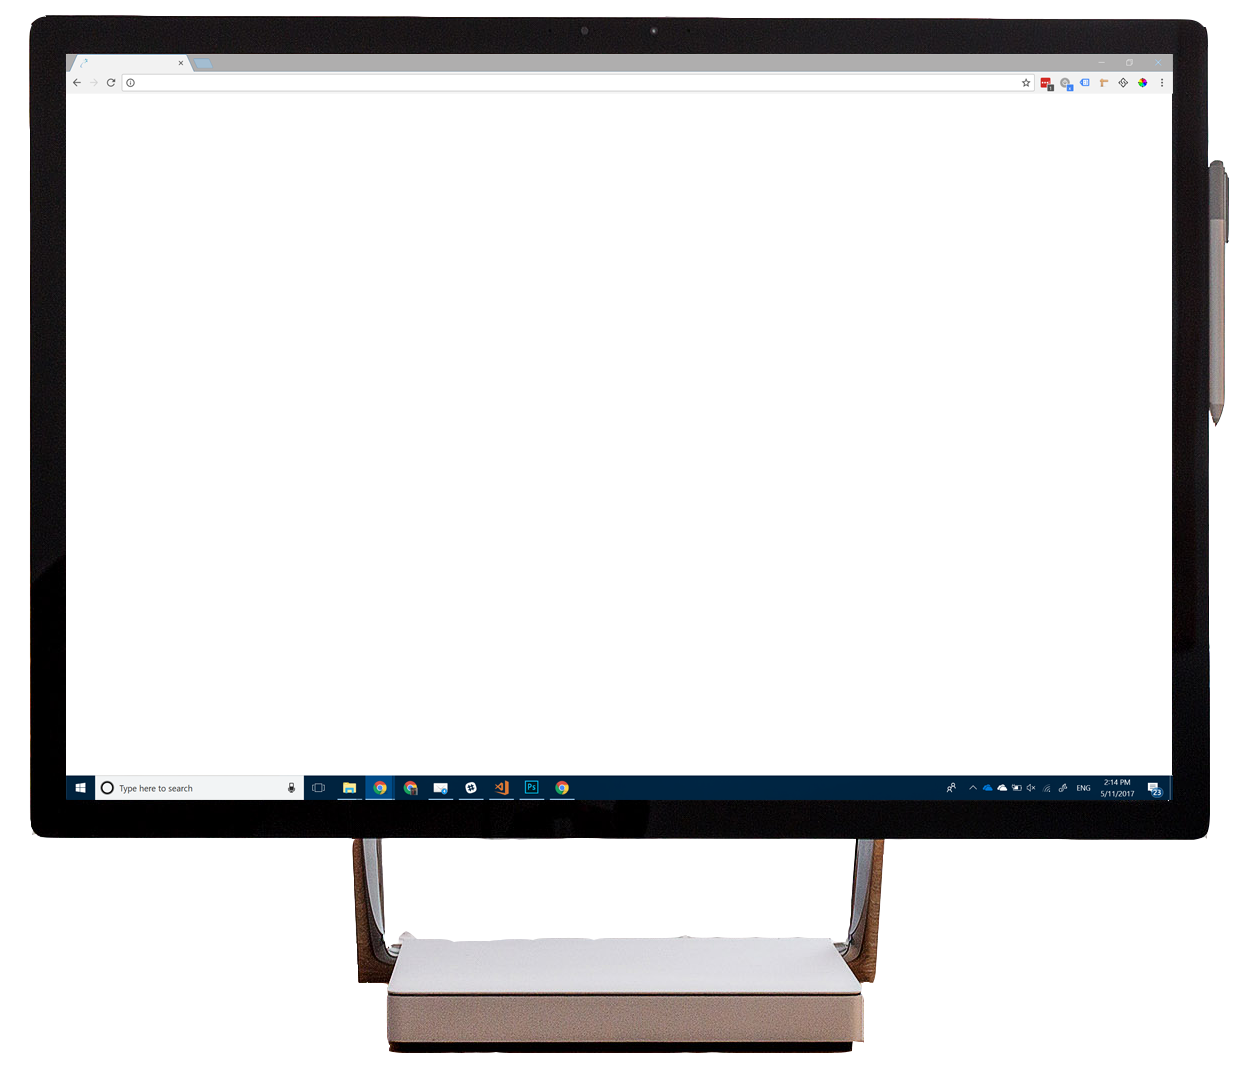
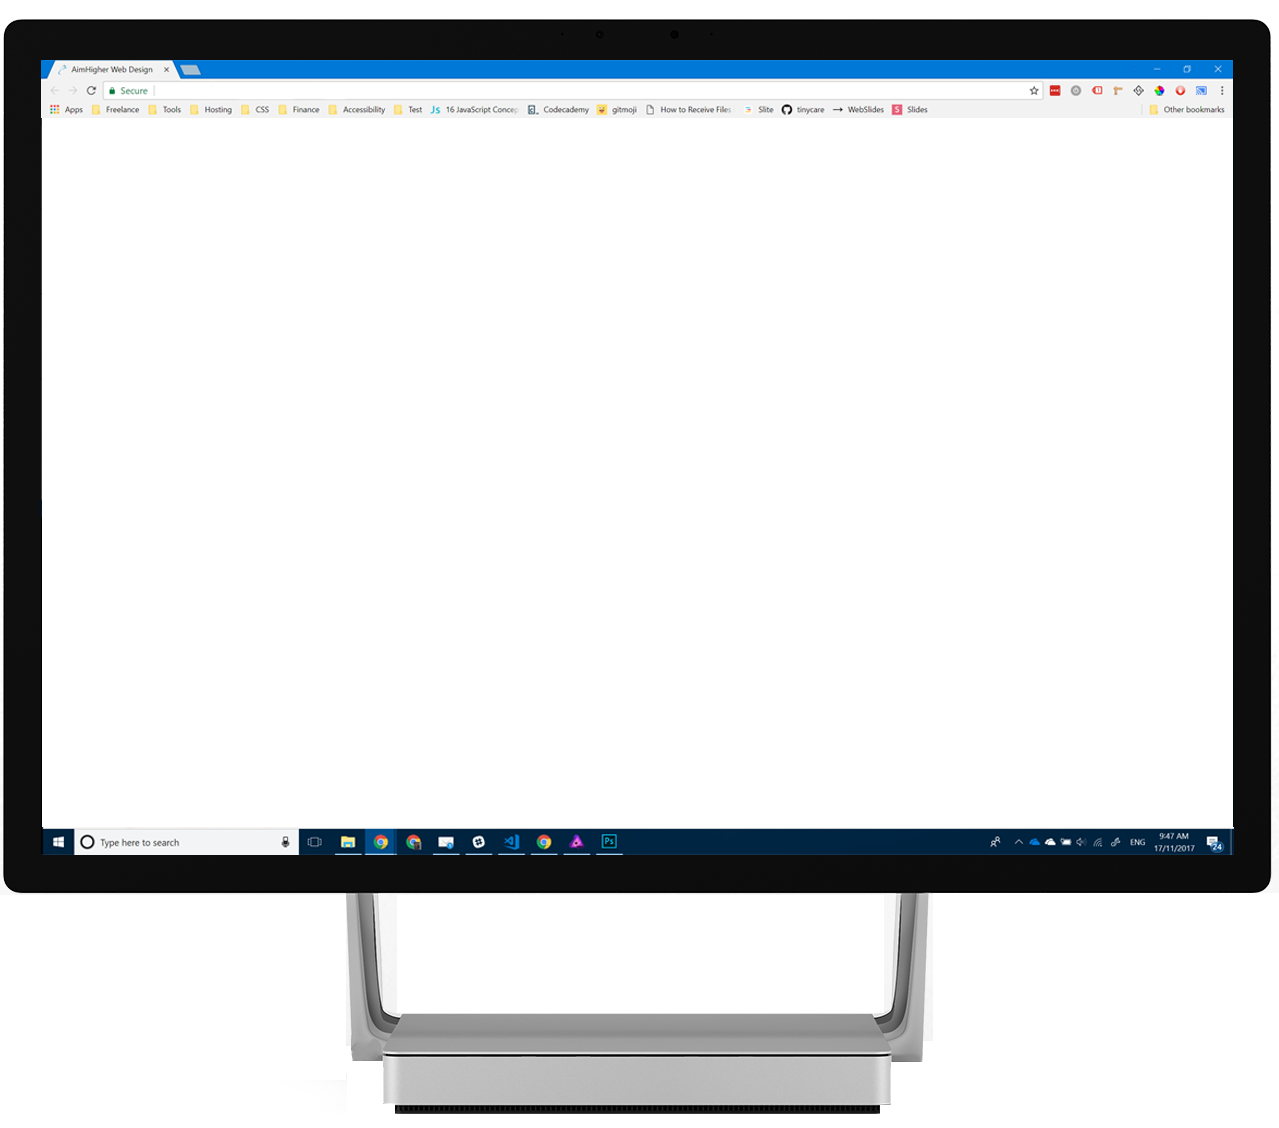
kinda fixed the portfolio page thing

Changed region(s): [[0.0, 0.0, 1.0, 0.9888]]

diff --git a/src/resources/portfolio.scss b/src/resources/portfolio.scss
@@ -5,10 +5,10 @@
         $width_mob: 75px; //Change this to change the size of the image
 
         // Desktop
-            $width_desk_full: 1258;
-            $height_desk_full: 1068;
-            $width_desk_img_full: 1108;
-            $height_desk_img_full: 680;
+            $width_desk_full: 1279;
+            $height_desk_full: 1128;
+            $width_desk_img_full: 1191;
+            $height_desk_img_full: 712;
             $ratio_desk: $height_desk_full / $width_desk_full;
             $ratio_desk_img: $height_desk_img_full / $width_desk_img_full;
             $ratio_desk_diff: $width_desk_img_full / $width_desk_full;
@@ -20,10 +20,10 @@
 
             // Border Details
                 // Border thickness (full size)
-                    $desk_top: 96;
-                    $desk_right: 84;
-                    $desk_bottom: 294;
-                    $desk_left: 68;
+                    $desk_top: 118;
+                    $desk_right: 46;
+                    $desk_bottom: 299.5;
+                    $desk_left: 42;
 
                 // Splice Details
                     $desk_splice_top: $desk_top / $height_desk_full * 100%;
@@ -38,10 +38,10 @@
                     $desk_width_left: $desk_left / $width_desk_full * $width_desk;
 
         // Mobile
-            $width_mob_full: 504;
-            $height_mob_full: 1045;
-            $width_mob_img_full: 455;
-            $height_mob_img_full: 730;
+            $width_mob_full: 1280;
+            $height_mob_full: 2600;
+            $width_mob_img_full: 1081;
+            $height_mob_img_full: 1925;
             $ratio_mob: $height_mob_full / $width_mob_full;
             $ratio_mob_img: $height_mob_img_full / $width_mob_img_full;
             $ratio_mob_diff: $width_mob_img_full / $width_mob_full;
@@ -52,10 +52,10 @@
 
             // Border Details
                 // Border thickness (full size)
-                    $mob_top: 144;
-                    $mob_right: 27;
-                    $mob_bottom: 174;
-                    $mob_left: 26;
+                    $mob_top: 333.6;
+                    $mob_right: 99;
+                    $mob_bottom: 350;
+                    $mob_left: 95;
 
                 // Splice Details
                     $mob_splice_top: $mob_top / $height_mob_full * 100%;
